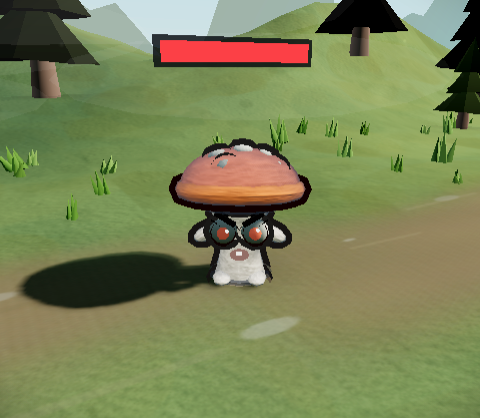
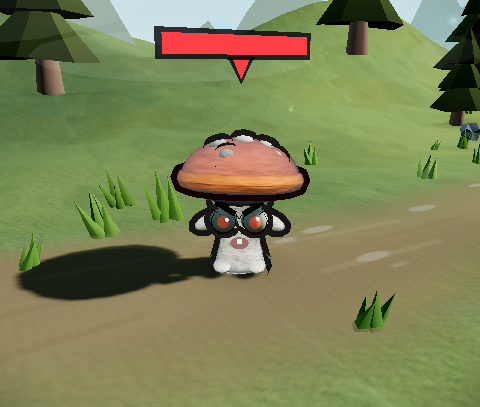
보스가 되어도 박자가 그대로였던 것 — 7종을 한 프로파일로 + 보스 감속 (enemy-quality ⓓ 완료·ⓔ 박자)
보스는 같은 메시를 1.9배로 키운 것이라 걸음까지 같으면 '크기만 키운
장난감'으로 읽힌다. 진자처럼 보행 주기는 다리 길이의 제곱근에 비례하므로
박자를 1/√배율(0.7255)로 늦춘다.

- ENEMY_GAIT 에 늑대·박쥐·버섯·슬라임 추가 — 7종 전부 한 표에서 뽑는다.
  기존 상수를 그대로 옮겨 담아 거동은 불변(늑대 실측 0.2833s = 옛 기대치와 0.8%).
- gaitOf(kind, isBoss) 신설 + BOSS_SCALE 상수화. 체공 +0.35 무겁게, 흔들 ×1.2,
  스윙 각은 ×0.9 로 줄인다(느린 박자에 같은 각이면 허공을 휘젓는다).
- probe-gait 를 6종 30항목으로 확장 + 보스 항목 신설 — 전부 통과.
  종간 주기 15쌍 전부 구분 · 보스 계수 7종 전부 0.7255 정확히 일치.
- 회귀: probe-cap-flap 5항목 PASS(capAmp 이관 확인) · probe-enemy-ao 유출 0 ·
  probe-screens-errors 31/31 에러 0.

diff --git a/web/js/scene3d.js b/web/js/scene3d.js
@@ -5813,11 +5813,38 @@ const Scene3D = {
     // rate = 박자(rad/s) · bob = 상하 진폭 · bobPow = 체공 곡선(>1 이면 아래에 오래 머물러 **무겁게**,
     // <1 이면 위에 오래 떠 **가볍게**) · roll = 좌우 흔들 · hip = 다리 스윙 · arm = 팔 스윙 ·
     // lean = 전방 기울기(고블린의 굽은 등, 임프의 돌진 자세).
+    // 이족(golem·goblin·imp)만이 아니라 **네 발·비행·홉·젤리 종도 여기서 값을 뽑는다.** 예전엔 그쪽
+    // 분기마다 상수가 박혀 있어 ⑴ 한 곳에서 튜닝할 수 없고 ⑵ **보스가 되어도 박자가 안 변했다**(아래).
     ENEMY_GAIT: {
         golem: { rate: 4.2, bob: 0.05, bobPow: 1.9, roll: 0.055, hip: 0.34, arm: 0.40, lean: 0.02 },
         goblin: { rate: 10.5, bob: 0.05, bobPow: 1.0, roll: 0.035, hip: 0.88, arm: 0.72, lean: 0.10 },
         imp: { rate: 12.0, bob: 0.062, bobPow: 0.7, roll: 0.03, hip: 0.78, arm: 0.66, lean: 0.13 },
+        wolf: { rate: 11, bob: 0.05, bobPow: 1.0, legRate: 13, tailRate: 9, pitch: 0.03 },
+        bat: { rate: 5, bob: 0.1, bobPow: 1.0, hover: 0.12, wingRate: 16 },
+        mushroom: { rate: 7, bob: 0.17, bobPow: 1.0, capTilt: 0.13, capAmp: 0.035 },
+        slime: { rate: 6, bob: 0.12, bobPow: 1.0, jellyAmp: 0.16 },
         _default: { rate: 8, bob: 0.055, bobPow: 1.0, roll: 0.05, hip: 0.8, arm: 0.65, lean: 0 },
+    },
+    BOSS_SCALE: 1.9,
+    // 보스는 **같은 메시를 그대로 키운 것**이라(g.scale 1.9) 박자까지 같으면 '크기만 키운 장난감'으로
+    // 읽힌다 — 큰 짐승이 작은 짐승과 같은 보폭으로 종종거리는 게 정확히 그 인상이다.
+    // 진자처럼 보행 주기는 다리 길이의 제곱근에 비례하므로 **박자를 1/√배율(≈0.73)로 늦춘다.**
+    // 체공 곡선도 한 단계 무겁게(+0.35) 해서 착지에 무게를 싣고, 좌우 흔들은 키워 관성을 준다.
+    // ⚠ 스윙 각(hip·arm)은 오히려 **줄인다** — 느려진 박자에 같은 각을 그대로 두면 팔다리가
+    //    허공을 휘젓는 인상이 된다(큰 개체일수록 관절 가동이 상대적으로 작다).
+    gaitOf(kind, isBoss) {
+        const G = this.ENEMY_GAIT[kind] || this.ENEMY_GAIT._default;
+        if (!isBoss) return G;
+        const k = 1 / Math.sqrt(this.BOSS_SCALE);
+        const o = {};
+        for (const key in G) o[key] = G[key];
+        for (const r of ['rate', 'legRate', 'tailRate', 'wingRate']) if (o[r]) o[r] = G[r] * k;
+        o.bob = G.bob * 1.15;
+        o.bobPow = G.bobPow + 0.35;
+        if (G.roll) o.roll = G.roll * 1.2;
+        if (G.hip) o.hip = G.hip * 0.9;
+        if (G.arm) o.arm = G.arm * 0.9;
+        return o;
     },
     monsterMesh(e) {
         const kinds = ['slime', 'golem', 'goblin', 'bat', 'mushroom', 'wolf', 'imp'];
@@ -6633,7 +6660,7 @@ const Scene3D = {
             topY = 0.98;
         }
         if (e.isBoss) {
-            g.scale.setScalar(1.9);
+            g.scale.setScalar(this.BOSS_SCALE);
             const crown = new THREE.Mesh(new THREE.ConeGeometry(0.18, 0.26, 5), new THREE.MeshLambertMaterial({ color: 0xffd54f, emissive: 0xffd54f, emissiveIntensity: 0.4 }));
             crown.position.y = topY;
             g.add(crown);
@@ -8732,39 +8759,40 @@ const Scene3D = {
             const walking = e.x > Combat.stopXOf(e) + 0.05;
             if (m.g.userData.landed) {
                 const clk = this._clock, id = e.id;
+                // 종별 프로파일 — 보스면 배율에 맞춰 박자가 느려지고 무거워진다(gaitOf 주석 참조).
+                const G = this.gaitOf(m.anim && m.anim.kind, e.isBoss);
                 if (m.anim && m.anim.fly) {
                     // 박쥐류: 공중 부양 + 날개 퍼덕임
-                    m.g.position.y = 0.12 + Math.sin(clk * 5 + id) * 0.1;
-                    m.anim.wings.forEach(w => w.rotation.z = w.userData.s * (0.3 + Math.sin(clk * 16 + id) * 0.55));
+                    m.g.position.y = G.hover + Math.sin(clk * G.rate + id) * G.bob;
+                    m.anim.wings.forEach(w => w.rotation.z = w.userData.s * (0.3 + Math.sin(clk * G.wingRate + id) * 0.55));
                 } else if (walking) {
                     if (m.anim && m.anim.kind === 'wolf') {
                         // 늑대: 네 다리 질주
-                        m.g.position.y = Math.abs(Math.sin(clk * 11 + id)) * 0.05;
+                        m.g.position.y = Math.pow(Math.abs(Math.sin(clk * G.rate + id)), G.bobPow) * G.bob;
                         m.anim.legs.forEach((lg, j) => {
                             // 로터리 갤럽 위상: 앞발 쌍·뒷발 쌍이 살짝 어긋나 어느 프레임에도 4지 동시 접지가 없음 (비평가: 죽은 프레임 금지)
-                            const lp = clk * 13 + id + [0, 1.1, 3.25, 4.35][j];
+                            const lp = clk * G.legRate + id + [0, 1.1, 3.25, 4.35][j];
                             lg.rotation.x = Math.sin(lp) * 0.85;
                             const kn = m.anim.knees && m.anim.knees[j];
                             // 스윙 복귀 구간 무릎 접힘 — 앞다리는 뒤로, 뒷다리는 앞으로 (사족 관절 방향). 접힘각 상향 (사용자 재검수: 정지 프레임 판독)
                             if (kn) kn.rotation.x = kn.userData.rx0 + (kn.userData.front ? -1 : 1) * Math.max(0, Math.sin(lp + 1.3)) * 0.85;
                         });
-                        m.g.rotation.x = Math.sin(clk * 11 + id) * 0.03;
-                        if (m.anim.tail) m.anim.tail.rotation.z = Math.sin(clk * 9 + id) * 0.25; // 질주 중 꼬리 좌우 휘날림
+                        m.g.rotation.x = Math.sin(clk * G.rate + id) * G.pitch;
+                        if (m.anim.tail) m.anim.tail.rotation.z = Math.sin(clk * G.tailRate + id) * 0.25; // 질주 중 꼬리 좌우 휘날림
                     } else if (m.anim && m.anim.hop) {
                         // 버섯: 크게 총총 + 갓 출렁 + **테두리 플랩**(우산 살 2차 모션)
-                        m.g.position.y = Math.abs(Math.sin(clk * 7 + id)) * 0.17;
-                        if (m.anim.cap) m.anim.cap.rotation.z = Math.sin(clk * 7 + id) * 0.13;
-                        this.driveCapFlap(m, clk, 0.035, id);
+                        m.g.position.y = Math.pow(Math.abs(Math.sin(clk * G.rate + id)), G.bobPow) * G.bob;
+                        if (m.anim.cap) m.anim.cap.rotation.z = Math.sin(clk * G.rate + id) * G.capTilt;
+                        this.driveCapFlap(m, clk, G.capAmp, id);
                     } else if (m.anim && m.anim.kind === 'slime') {
                         // 슬라임: 젤리 스쿼시 점프 — 몸통 스케일을 통째로 흔들지 않고 **정점 웨이브**로 민다.
                         // (강체 스케일은 '크기가 변하는 풍선'이라 젤리로 안 읽혔다 — driveJelly 주석 참조.)
-                        m.g.position.y = Math.abs(Math.sin(clk * 6 + id)) * 0.12;
-                        this.driveJelly(m, clk, 0.16, id);
+                        m.g.position.y = Math.pow(Math.abs(Math.sin(clk * G.rate + id)), G.bobPow) * G.bob;
+                        this.driveJelly(m, clk, G.jellyAmp, id);
                     } else {
                         // 이족보행: 관절 걷기 — 고관절 스윙+무릎 굽힘, 어깨 스윙+팔꿈치 굽힘 (통짜 막대기 금지)
-                        // ⓓ: 박자·진폭을 **종별 프로파일**에서 뽑는다. 예전엔 셋 다 clk*8 고정이라
+                        // ⓓ: 박자·진폭을 **종별 프로파일**(위 G)에서 뽑는다. 예전엔 셋 다 clk*8 고정이라
                         //    골렘·고블린·임프의 걸음이 구분이 안 됐다(ENEMY_GAIT 주석 참조).
-                        const G = this.ENEMY_GAIT[m.anim.kind] || this.ENEMY_GAIT._default;
                         const ph = clk * G.rate + id; // 종마다 주기가 달라 연속 캡처 정수배 겹침도 자연히 갈린다
                         // bobPow — 골렘은 아래에 오래 머물러 '쿵' 하고 내려앉고, 임프는 위에 오래 떠 가볍다.
                         m.g.position.y = Math.pow(Math.abs(Math.sin(ph)), G.bobPow) * G.bob;

diff --git a/web/tools/probe-gait.js b/web/tools/probe-gait.js
@@ -20,7 +20,7 @@
 //  ④ 종끼리 실제로 다른가 — 위 셋이 종별로 갈리는지. 같으면 ⓓ 가 안 된 것이다.
 const { chromium } = require(process.env.PW_PATH || '/opt/node22/lib/node_modules/playwright');
 const INDEX = 'file://' + require('path').resolve(__dirname, '../index.html');
-const KINDS = process.argv.slice(2).length ? process.argv.slice(2) : ['golem', 'goblin', 'imp'];
+const KINDS = process.argv.slice(2).length ? process.argv.slice(2) : ['golem', 'goblin', 'imp', 'wolf', 'mushroom', 'slime'];
 
 const N = 480;          // 8초분 @60fps
 const PERIOD_TOL = 0.12; // 실측 주기가 코드 기대치에서 벗어나도 되는 비율
@@ -55,7 +55,8 @@ const runKind = async (browser, KIND) => {
         e.x = Combat.stopXOf(e) + 5;             // walking = true 로 고정
         Scene3D.worldX = 0;
 
-        const gait = Scene3D.ENEMY_GAIT[m.anim.kind] || Scene3D.ENEMY_GAIT._default;  // 코드가 준 값을 읽는다
+        const gait = Scene3D.gaitOf(m.anim.kind, false);      // 코드가 준 값을 읽는다(일반 개체)
+        const bossGait = Scene3D.gaitOf(m.anim.kind, true);   // 같은 종의 보스 프로파일
 
         const ys = [], legs = [];
         for (let i = 0; i < N; i++) {
@@ -63,7 +64,7 @@ const runKind = async (browser, KIND) => {
             e.alive = true;
             Scene3D.update(1 / 60);
             ys.push(m.g.position.y);
-            const rig = m.anim.gleg || (m.anim.bleg && m.anim.bleg.map(L => L.hip));
+            const rig = m.anim.gleg || (m.anim.bleg && m.anim.bleg.map(L => L.hip)) || m.anim.legs;
             legs.push(rig ? rig.map(o => o.rotation.x) : []);
         }
 
@@ -75,7 +76,7 @@ const runKind = async (browser, KIND) => {
             swing.push(Math.max(...col) - Math.min(...col));
         }
 
-        return { kind: m.anim.kind, gait, ys, swing, nLeg };
+        return { kind: m.anim.kind, gait, bossGait, bossScale: Scene3D.BOSS_SCALE, ys, swing, nLeg };
     }, N);
 
     await page.close();
@@ -101,9 +102,14 @@ const runKind = async (browser, KIND) => {
 
     const minSwing = Math.min(...swing);
     console.log(`\n[${res.kind}] rate ${gait.rate} · bobPow ${gait.bobPow} · 다리 ${res.nLeg}개`);
-    if (!res.nLeg) fails.push('① 다리 리그가 없다 — anim.gleg/bleg 확인');
-    if (minSwing < 0.05) fails.push(`① 다리 스윙 진폭 최소 ${minSwing.toFixed(4)} rad — 다리가 안 움직인다`);
-    console.log(`① 다리 스윙 p-p ${swing.map(v => v.toFixed(3)).join(' / ')} rad ... ${res.nLeg && minSwing >= 0.05 ? 'PASS' : 'FAIL'}`);
+    // 슬라임·버섯은 다리가 없는 종이라 ① 을 면제한다(젤리 웨이브·홉이 그쪽의 고유 모션이다).
+    const LEGLESS = ['slime', 'mushroom'];
+    const legExempt = LEGLESS.includes(res.kind);
+    if (!legExempt) {
+        if (!res.nLeg) fails.push('① 다리 리그가 없다 — anim.gleg/bleg/legs 확인');
+        if (minSwing < 0.05) fails.push(`① 다리 스윙 진폭 최소 ${minSwing.toFixed(4)} rad — 다리가 안 움직인다`);
+    }
+    console.log(`① 다리 스윙 ${legExempt ? '해당 없음(다리 없는 종)' : swing.map(v => v.toFixed(3)).join(' / ') + ' rad'} ... ${legExempt || (res.nLeg && minSwing >= 0.05) ? 'PASS' : 'FAIL'}`);
 
     const err = expect ? Math.abs(period - expect) / expect : 1;
     if (err > PERIOD_TOL) fails.push(`② 실측 주기 ${period.toFixed(4)}s 가 코드 기대치 ${expect.toFixed(4)}s 에서 ${(err * 100).toFixed(1)}% 벗어남`);
@@ -124,6 +130,16 @@ const runKind = async (browser, KIND) => {
     if (!dirOk) fails.push(`③ bobPow ${gait.bobPow} 인데 중앙값 ${medN.toFixed(3)} 이 중립선 ${NEUTRAL.toFixed(3)} 의 반대쪽이다`);
     console.log(`③ 체공 곡선 중앙값 ${medN.toFixed(3)} vs 기대 ${expectMed.toFixed(3)} (중립선 ${NEUTRAL.toFixed(3)}, ${gait.bobPow > 1.15 ? '무겁게' : gait.bobPow < 0.85 ? '가볍게' : '중립'}) ... ${shapeOk ? 'PASS' : 'FAIL'}`);
     console.log(`   상하 진폭 ${(yMax - yMin).toFixed(4)} · 콘솔 에러 ${errors.length}건`);
+
+    // ⑤ 보스 프로파일 — 같은 메시를 1.9배로 키우는 만큼 박자가 1/√배율로 느려져야 한다.
+    //    ⚠ 기대 계수를 프로브에 베끼지 않는다(함정 ④⑴) — `Scene3D.BOSS_SCALE` 을 코드에서 읽어 만든다.
+    const bg = res.bossGait, kExp = 1 / Math.sqrt(res.bossScale);
+    const kAct = bg.rate / gait.rate;
+    const kErr = Math.abs(kAct - kExp) / kExp;
+    const heavier = bg.bobPow > gait.bobPow;
+    if (kErr > 0.02) fails.push(`⑤ 보스 박자 계수 ${kAct.toFixed(4)} 가 1/√${res.bossScale} = ${kExp.toFixed(4)} 에서 벗어남`);
+    if (!heavier) fails.push(`⑤ 보스 bobPow ${bg.bobPow} 가 일반 ${gait.bobPow} 보다 무겁지 않다`);
+    console.log(`⑤ 보스 박자 ${gait.rate.toFixed(2)} → ${bg.rate.toFixed(2)} (계수 ${kAct.toFixed(4)} vs 기대 ${kExp.toFixed(4)}) · bobPow ${gait.bobPow} → ${bg.bobPow} ... ${kErr <= 0.02 && heavier ? 'PASS' : 'FAIL'}`);
 
     if (errors.length) fails.push(`콘솔 에러 ${errors.length}건: ${errors.slice(0, 2).join(' | ')}`);
     return { fails: fails.map(f => `[${res.kind}] ${f}`), sig: { kind: res.kind, period: +period.toFixed(4), medN: +medN.toFixed(3), amp: +(yMax - yMin).toFixed(4) } };

diff --git a/web/TODO.md b/web/TODO.md
@@ -1868,6 +1868,7 @@
   - 진행 메모(3D 스트림 세션, 2026-08-17 15:0x): **② 시대 재질 정체성 완료 → ①②③ 전부 반영. 남은 건 ⑤의 비평가 채점뿐인데 그건 '최후반 폴리싱' 규칙에 걸려 있어 [ ] 유지**(다음 세션은 처음부터 만들 필요 없이 채점만 받으면 된다). **문제의 실체**: 무기는 `weaponMatKind`가 시대를 stone/bone/blackpowder/gunmetal/energy로 이미 갈라놨는데 **투구·갑옷·장신구는 전 시대가 같은 식 하나**였다 — `new THREE.Color(시대색).lerp(스틸, 0.32) + metalness .85`. 그래서 원시 '뼈 투구'도 매끈한 회백 금속으로 나와 **시대색만 다른 같은 물건**으로 읽혔다. **넣은 것**: ① `Scene3D.ageGearKind(age)`/`ageGearMats(age)` 신설 — 무기와 **같은 시대 구획**(0 primal / 1 forged / 2 brass / 3 polymer / 4+ alloy)으로 body·dark·trim 3종 재질을 굽는다. primal=돌 입자 맵+flatShading+metalness .02, forged=브러시드 결 맵+.86, brass=황동 .8, polymer=무광 폴리머 .34, alloy=어두운 합금 .9+언릿 발광 트림. ② `Scene3D.addAgeTrim(g, mats)` — 조립이 끝난 그룹의 **바운딩 박스에서 아랫단 밴드를 역산**해 계열별 디테일을 두른다(리벳 8개 / 발광 링+세로 스트립 / 가죽끈+뼈이빨 3개 / 황동 밴드+스터드 4개 / 벤트 슬랫 3줄). 스타일이 투구 11종·갑옷 6종이라 **좌표 상수로는 못 맞춘다** — 실제 크기에서 재는 게 유일한 방법. ③ 적용처: `makeHelmet`(인게임 투구와 공용) · `makeArmorPreview` · `makeArmorExtras`(4번째 인자로 mats, 인게임 호출부도 전달) · `makeAccessoryPreview`. **⚠ 두 번 밟은 함정**: ⑴ **맵은 albedo에 곱해진다** — rockTex 베이스가 #b9bcc0(≈0.73), leatherTex가 #c9b8a6이라 맵을 얹는 계열은 color를 그만큼 올려두지 않으면 시대색이 통째로 한 단 어두워진다(primal·forged에 +0.06 명도 보정). ⑵ **링은 원이 아니라 타원이어야 한다** — 갑옷 몸통은 0.46×0.30 박스라 원 링을 두르면 앞뒤로 6cm 떠서 '허공의 고리'가 된다. `ellipseRing()`이 토러스를 눕힌 뒤 scale.y로 z반경을 맞춘다(rotation.x=π/2면 **로컬 y가 월드 z**). ⑶ 갑옷 트림은 **견갑·망토를 붙이기 전에** 둘러야 한다 — 다 붙인 뒤 재면 반경이 0.23→0.44로 커져 리벳이 가슴 앞 허공에 뜬다. ⑷ 하드코딩된 파생 재질(`metalness: 0.85` 고정으로 만들던 림·코가드·가면판·tech 셸)을 `tintOf(base, 명도차)`로 갈았다 — 안 그러면 원시 투구에 강철 림만 반짝인다. **가죽·로브 계열**(hide/robe/망토/로브자락)은 시대색은 유지한 채 metalness만 빼서 '철판 원피스'를 막았다. **검증**: `web/tools/probe-age-materials.js`(신설) 5항목 전부 통과 — 재질 계열 5구획 / 계열별 PBR 서명 5종 고유 / 전 10시대 디테일 부착(원시 4개·중세 8개·근세 5개·현대 3개·미래 2개) / 시대별 썸네일 픽셀 전부 상이 / 콘솔 에러 0. 컨택트 시트 `web/tools/shot-age-gear.js` → `web/tools/age-gear.png`(시대 10행 × 부위 6열, 192px). 회귀: probe-screens-errors 31/31 · probe-forge-list-thumbs 5항목 전부 통과(그룹 80개 중복 0 유지). **⚠ 별건 발견 — `web/tools/shot-helm.js`의 카메라 피팅이 깨져 있다**: 투구가 아니라 **뒤쪽 풍경**이 찍힌다(내 변경 전 코드로 되돌려 찍어도 같은 그림 = 기존 결함, 회귀 아님). 투구를 근접 검증하려는 다음 세션은 이 도구부터 고칠 것.
   - 진행 메모(3D 스트림 세션, 2026-08-17 13:xx): **①·③ 완료, ② 시대 재질 정체성만 남음 — [ ] 유지.** **① 이모지 반복 제거**: `renderForgeListView`가 부위별 고정 이모지(🪖/👕/SLOT_EMOJI)를 이름 개수만큼 찍던 걸, 이미 있던 3D 스냅샷 파이프라인(`Scene3D.itemThumb` — 장비 상세 팝업이 쓰던 것)으로 교체했다. **③ 이름 정합(부분)**: 중복의 진짜 원인은 목록 렌더가 아니라 `HELMET_STYLES`/`ARMOR_STYLES`가 **한 시대 안에서 같은 스타일을 두 번 쓰던 것**이었다(예: 원시 helmet `['hair','mask','mask','visor','plume']` → 가면과 전투 페인트가 같은 모델). 스타일이 곧 프리뷰 모델이라 이름만 다르고 그림이 같았다 — 두 표를 **시대 안에서 전부 고유**하도록 이름 뜻에 맞춰 재배정했다(깃털 모자=plume, 뱀의 화관=crown 식). 실측: (시대,부위) 80개 그룹 **전부 고유, 중복 0** (이전 17개 그룹 중복). **하이드레이트 방식 주의**: 셀이 306개라 목록 열 때 전부 구우면 얼어붙는다(첫 `itemThumb`가 썸네일 렌더러+PMREM을 만드느라 소프트웨어 GL 실측 2.4초). 프레임당 6장씩 나눠 굽고 목록이 닫히거나 재렌더되면 중단한다. **IntersectionObserver 지연 로딩은 쓰지 말 것 — 헤드리스에서 콜백이 아예 안 와서 썸네일이 하나도 안 뜬다(실측).** 밝은 장비가 흰 칸에 묻혀 빈 칸처럼 보여 `.fl-face.has-thumb`에 옅은 바탕만 추가. **남은 일 ②**: 시대별 재질 언어(원시=돌·나무·뼈·가죽, 중세=단조 철·리벳, 미래=합금·발광 라인)를 실제 프리뷰 모델 재질에 반영 — 지금은 시대색만 다르고 재질감은 공통이라 원시 장비도 매끈한 회백색으로 나온다. 검증: `web/tools/probe-forge-list-thumbs.js` 5항목 통과, 목록 캡처 `web/tools/forge-list-thumbs.png`, 전 화면 스모크 31/31 콘솔 에러 0건.
 - [ ] **적 몬스터 퀄리티 업 (slug: enemy-quality) (사용자 지시)**: GLB 삭제로 복귀한 프로시저럴 적 7종(슬라임·골렘·고블린·박쥐·버섯·늑대·임프)+보스 변형의 품질을 영웅과 같은 수준으로 끌어올릴 것 — 영웅에 적용한 기법(캔버스 생성 텍스처, AO 링, 관절 분절 리그, 베벨 지오메트리, 얼굴 디테일)을 적에도 적용하고, 종별 개성(실루엣·재질·고유 모션)을 강화. 비평가 'AAA 모바일 3D 게임 적으로 믿을 수 있는가' 9/10 통과제, 종 단위로 나눠 커밋 가능.
+  - 진행 메모(3D 스트림, 2026-08-18 05:4x — **ⓓ 완료(7종 전부) + ⓔ 보스 박자. ⓒ 버섯갓·ⓔ 잔여·ⓕ 남아 [ ] 유지**): ■ **실체**: ⑴ 앞 커밋에서 이족 3종만 프로파일로 옮겨 놨고 **늑대·박쥐·버섯·슬라임은 각 분기에 상수가 그대로 박혀 있었다**(clk*11, clk*13, clk*16, clk*7, clk*6 …) — 한 곳에서 튜닝할 수 없었다. ⑵ 더 큰 것: **보스가 되어도 박자가 하나도 안 변했다.** 보스는 `g.scale.setScalar(1.9)` 로 **같은 메시를 그대로 키운 것**이라, 걸음까지 같으면 '크기만 키운 장난감'으로 읽힌다 — 큰 짐승이 작은 짐승과 같은 보폭으로 종종거리는 게 정확히 그 인상이다. ■ **넣은 것**: ⑴ `ENEMY_GAIT` 에 늑대(`legRate`·`tailRate`·`pitch`)·박쥐(`hover`·`wingRate`)·버섯(`capTilt`·`capAmp`)·슬라임(`jellyAmp`)을 추가해 **7종 전부** 한 표에서 값을 뽑는다(기존 상수를 그대로 옮겨 담아 **거동은 불변** — 늑대 실측 주기 0.2833s 가 옛 clk*11 기대치 0.2856s 와 0.8% 로 일치하는 것이 그 증거다). ⑵ `Scene3D.gaitOf(kind, isBoss)` 신설 + `BOSS_SCALE` 상수화(하드코딩 1.9 제거). **보스는 박자를 1/√배율(≈0.7255)로 늦춘다** — 진자처럼 보행 주기가 다리 길이의 제곱근에 비례하기 때문이다. 체공 곡선은 +0.35 무겁게, 좌우 흔들은 ×1.2. ⚠ **스윙 각(hip·arm)은 오히려 ×0.9 로 줄인다** — 느려진 박자에 같은 각을 두면 팔다리가 허공을 휘젓는 인상이 된다(큰 개체일수록 관절 가동이 상대적으로 작다). ■ **검증**: `probe-gait.js` 를 6종으로 확장 + 보스 항목(⑤) 신설 — **6종 30항목 전부 통과**. 실측 주기 vs 코드 기대치 오차 0.3~1.9% · 체공 중앙값이 `0.7071^bobPow` 기대치와 일치 · **종간 주기 15쌍 전부 구분됨**(0.2667~0.75s) · 보스 계수 7종 전부 **0.7255 = 1/√1.9** 정확히 일치. ⚠ 보스 기대 계수도 프로브에 베끼지 않고 `Scene3D.BOSS_SCALE` 을 **코드에서 읽어** 만든다(함정 ④⑴). 다리 없는 종(슬라임·버섯)은 ① 다리 게이트를 면제한다. 회귀: `probe-enemy-ao` 6종 후프 유출 0 · `probe-cap-flap` **5항목 PASS**(버섯 갓 플랩이 프로파일 이관 후에도 정상 — `capAmp` 를 옮겨 담았으므로 반드시 같이 볼 것) · `probe-screens-errors` **31/31 콘솔 에러 0** · `enemy-bat/mushroom/slime.png` 재촬영. ■ **다음 세션 착수 지점 = ⓔ 보스 변형 잔여**: 박자만 손봤고 **생김새는 아직 '1.9배 + 노란 왕관 콘' 하나뿐**이다. 실루엣 자체를 갈라야 한다(뿔·갑주 추가 파츠, 색 대비, 등장 시 고유 포즈). `gaitOf` 가 이미 isBoss 를 받으므로 모션 쪽 갈래는 여기에 얹으면 된다. 그 다음 ⓒ 버섯 갓(선행 과제는 위 04:4x 메모 참조) → ⓕ 비평가 9/10 채점.
   - 진행 메모(3D 스트림, 2026-08-18 05:1x — **ⓓ 착수·이족 3종 완료. ⓒ 버섯갓·ⓓ 잔여·ⓔ~ⓕ 남아 [ ] 유지**): ■ **실체 2건**: ⑴ **골렘·고블린·임프가 완전히 같은 걸음을 걸었다** — 셋 다 `clk * 8` 고정에 진폭까지 같은 이족 사이클 하나를 공유했다. 질량이 20배 차이 나는데 박자가 같으면 '같은 인형이 크기만 다른 것'으로 읽힌다. ⑵ **골렘은 다리가 아예 안 움직였다** — 다리와 발이 **둘 다 `g` 에 고정**돼 있어(anim 에 노출 안 됨) 몸통만 위아래로 까딱이는 **'미끄러지는 석상'**이었다. 걷기 코드가 골렘 다리를 건드릴 방법 자체가 없었다. ■ **넣은 것**: `Scene3D.ENEMY_GAIT` 신설 — 종별로 `rate`(박자)·`bob`·`bobPow`(체공 곡선)·`roll`·`hip`·`arm`·`lean`(전방 기울기)을 정의하고 이족 분기가 여기서 값을 뽑는다. 골렘 4.2/bobPow 1.9(느리고 **아래에 오래 머물러** 쿵 내려앉음) · 고블린 10.5/1.0(빠른 종종걸음 + 굽은 등 lean 0.10) · 임프 12.0/0.7(가장 빠르고 **위에 오래 떠** 가벼움). `limb()` 이 이미 피벗 위쪽 끝 그룹이라 골렘 다리는 그대로 스윙시킬 수 있었다 — **발을 다리에 매달고**(로컬 좌표 = 원래 g 좌표 − 다리 좌표) `anim.gleg` 로 노출했다. 무릎이 없어 통째로 스윙한다(짧고 두꺼워 큰 각은 부러져 보인다). ⚠ `lean` 은 상수라 **대기 분기에서 `rotation.x *= 0.9` 로 풀어 준다** — 안 그러면 멈춘 뒤에도 숙인 채 굳는다. ■ 🚨 **함정 1건 — 내가 만든 자가 틀려서 멀쩡한 코드를 반려할 뻔했다**: 체공 곡선을 '정규화 높이 중앙값 < 0.5 면 무겁다'로 쟀는데 골렘이 0.510 이 나와 FAIL 했다. **기준선이 0.5 가 아니다** — 높이가 `|sin|^p` 이고 위상이 균일하면 중앙값은 `sin(π/4)^p = 0.7071^p` 다(p=1 이면 **0.707**). 골렘의 기대치는 0.518 이고 실측 0.525 로 **처음부터 맞았다**. TODO 함정 ①('비평가가 ±2%p 초과를 보고하면 직접 교차검증하라, 오측정을 좇으면 오히려 원본에서 멀어진다')의 교과서적 사례다 — **코드가 아니라 자를 고쳤다.** 지금은 기대치를 `ENEMY_GAIT.bobPow` 에서 직접 계산해 맞춰 보므로 bobPow 가 실제로 먹었는지까지 같이 검증된다. ■ 🚨 **함정 2건 — 프로브가 두 번 죽었다(적이 살아 있을 거라고 가정)**: `enemyMap.size > 0` 만 기다리면 통과 직후에 **영웅이 웨이브를 전멸시켜** `Combat.enemies.find(alive)` 가 undefined 를 준다(imp·golem 런에서 각각 한 번씩). 대응: ⑴ evaluate 맨 처음에 `Combat.tick` 을 **먼저** 끊고 ⑵ 그래도 산 개체가 없으면 **메시가 남아 있는 적을 되살려** 쓰고 ⑶ 매 프레임 `alive` 를 다시 세운다. ■ **검증**: 신설 `tools/probe-gait.js` — 함정 ③ 그대로 지켜 **한 번의 evaluate 안에서** Combat 틱을 끊고 백로그를 비운 뒤 `Scene3D.update(1/60)` 를 480프레임 손으로 흘리며 샘플링한다. **3종 12항목 전부 통과**: 다리 스윙 p-p 골렘 **0.680**(예전엔 0 — 회귀 방지 게이트)·고블린 1.820·임프 1.627 rad / 실측 주기가 코드 기대치와 골렘 0.3%·고블린 0.3%·임프 1.9% / 체공 중앙값 0.525·0.711·0.787 (기대 0.518·0.707·0.785) / **종간 주기 3쌍 전부 구분됨**(0.75s vs 0.30s vs 0.267s). 회귀: `probe-enemy-ao` 6종 후프 유출 0 · `probe-screens-errors` **31/31 콘솔 에러 0** · `enemy-golem.png` 재촬영. ■ **다음 세션 착수 지점 = ⓓ 잔여**: 이족 3종은 됐고 **박쥐·슬라임·버섯·늑대는 각자 고유 모션이 이미 있다**(비행/젤리/홉+갓플랩/갤럽) — 다만 전부 `ENEMY_GAIT` 를 안 쓰고 각 분기에 상수가 박혀 있으니, 그 넷도 프로파일로 끌어올리면 한 곳에서 튜닝된다. 그 다음 ⓔ 보스 변형(보스는 지금 일반 개체와 같은 모션을 쓴다) → ⓕ 비평가 9/10 채점.
   - 진행 메모(3D 스트림, 2026-08-18 04:4x — **ⓒ 고블린·임프 완료(골렘·늑대에 이어 4종). 버섯·ⓓ~ⓕ 남아 [ ] 유지**): ■ **처리**: 고블린 14개(몸·배·머리·턱·고관절·어깨·팔꿈치·손·발)와 임프 7개(몸·배·머리·팔꿈치·손)의 완전구에 `sculptOrganic` 적용. 늑대에서 만든 자를 그대로 썼고 새 코드는 없다. ⚠ **눈알·코·뿔·발굽·송곳니·귀(Cone)·목걸이 구슬은 손대지 않았다** — 완전구/뾰족함이 정답인 부위다. ■ 🚨 **함정 1건 — seed 를 `base + s * k`(s = -1/1) 로 짓지 말 것**: 고블린에서 어깨(78−5)·팔꿈치(82−9)·손(86−13)이 **셋 다 73** 에 떨어져 세 파츠가 같은 덩어리가 됐다(개체차 0.0061 로 반려). 좌우를 `base`/`base+1` 로 붙이는 것도 **부족했다**(0.0113) — `s0 = seed * 2.3391` 이라 인접 seed 는 위상이 비슷하다. 파츠마다 **7 이상 벌린** 값으로 바꿔 0.0237 이 됐다. ■ **버섯은 일부러 남겼다**: 갓 돔(`dome`)이 이 종의 실루엣 대부분인데, 앞 세션이 넣은 `driveCapFlap` 이 **중심에서의 반지름을 축으로** 정점을 흔든다. 여기에 정적 반경 변동을 얹으면 플랩의 기준선이 바뀌어 `probe-cap-flap` 의 띠별 위상 지연 측정이 통째로 흔들린다. **플랩 진폭과 조형 변위를 분리해 잴 방법을 먼저 세운 뒤** 손댈 것 — 아무 생각 없이 `sculptOrganic` 을 걸면 앞 세션 작업이 조용히 깨진다. ■ 🚨 **인프라 함정 2건(다음 세션이 그대로 밟는다)**: ㉠ **`claim.sh refresh` 는 더러운 트리에서도 실패한다.** TODO 규칙은 detached HEAD 만 원인으로 적어 뒀지만, 커밋 안 한 작업 파일이 있으면 `push_lock` 의 `pull --rebase` 재시도가 거부돼 똑같이 `WARN ... push 실패` 가 나고 **remote ts 가 안 올라간다**(실측: `## main...origin/main [ahead 1]` = 락 커밋이 로컬에만 쌓임). 대응은 `git stash -u` → refresh → `git stash pop`. ㉡ **⚠ 그런데 프로브가 도는 중에는 stash 하지 말 것** — 헤드리스 브라우저가 `file://` 로 디스크의 js 를 읽는 중이라, stash 가 파일을 되돌리면 **실행 중이던 프로브 3개가 통째로 빈 출력만 남기고 죽는다**(실측). 리스 갱신은 프로브를 다 돌린 뒤에 할 것. ■ **검증**: `probe-flesh-sculpt.js` 를 종 인자로 받게 일반화(기본 늑대·고블린·임프) — **3종 15항목 전부 통과**. 고블린 cv 0.0276~0.0595 · 개체차 31쌍 최소 0.0237 / 임프 cv 0.0267~0.0563 · 개체차 7쌍 최소 0.0208 / 이음새 찢어짐 0 · 법선각 27.5°·27.7°(상한 34°) · 결정론 최대차 0. 회귀: `probe-enemy-ao` **6종 전부 후프 유출 0** · `probe-screens-errors` **31/31 콘솔 에러 0** · `enemy-goblin.png`·`enemy-imp.png` 재촬영. ■ **다음 세션 착수 지점**: ⓒ 는 **버섯 갓만 남았다**(위 단서 참조, 선행 과제 있음). 그 외 ⓒ 잔여는 `Cone`·`Box` 계열인데 뿔·귀·송곳니·마그마 균열처럼 **의도적으로 각진 것들**이라 사실상 종료로 봐도 된다. → ⓓ 종별 고유 모션 → ⓔ 보스 변형 → ⓕ 비평가 9/10 채점.
   - 진행 메모(3D 스트림, 2026-08-18 04:1x — **ⓒ 늑대 완료(골렘에 이어 2종). ⓒ 나머지 종·ⓓ~ⓕ 남아 [ ] 유지**): ■ **실체**: 늑대의 몸 덩어리 17개(흉곽·골반·러프·두개골·콧등·아랫배·근육 4·발 4·꼬리 3)가 전부 **완전구를 mesh.scale 로 눌러 만든 타원체**였다 — '회색 캡슐 조립' 오독의 본체다. ■ **골렘 자를 그대로 대면 안 된다**: `boulderGeo` 는 각진 파셋이 정답인 '돌'의 자라, 살·털에 걸면 '수정 늑대'가 된다. 그래서 `Scene3D.sculptOrganic(geo, seed, opt)` 를 따로 신설했다 — 저진폭·저주파로 **부드럽게** 윤곽만 깨고 법선을 매끈하게 다시 계산한다. 또 `boulderGeo` 와 달리 **이미 만들어진 지오메트리를 제자리에서** 바꾼다(호출자가 정한 분할수와 mesh.scale 을 그대로 살려야 해서다). ■ 🚨 **함정 1건 — 주파수를 너무 낮추면 변형이 통째로 무효다**: 처음 계수를 2.3/1.7/1.29 로 뒀더니 **같은 amp 인데 seed 에 따라 반경 변동계수가 0.0188~0.0542 로 요동**쳤다. 원인은 크기가 아니라, **물체 지름에 한 주기가 안 들어가면 변위가 사실상 '균일 스케일 + 평행이동'에 수렴**해 실루엣이 하나도 안 깨지는 것이었다(사인의 단조 구간에 물체가 통째로 얹히는 seed 가 있다). 3.1/2.6/2.1 로 올려 지름에 대략 한 주기가 들어가게 하니 seed 와 무관하게 0.0312~0.0662 로 안정됐다. **진폭을 올리는 게 아니라 주파수를 올리는 게 답이었다** — amp 를 키우면 '녹아내린' 인상만 늘고 cv 는 그대로다. ■ 🚨 **함정 2건 — 프로브 필터가 두 번 연속 틀렸다(측정 대상 오선정)**: ㉠ 눈알(흰자·홍채·동공·하이라이트)이 같은 `SphereGeometry` 라 그대로 섞여 들어와 **개체차 최소 0.0000** 이 나왔다 — 눈은 **완전구가 정답**이라 게이트에 들어가면 영원히 FAIL 한다. 털 재질(hideTex 맵)로 걸렀다. ㉡ `ProChar.capsule` 의 반구 캡 8개도 같은 furM 을 물어 재질 필터를 통과했다. **자식 수로 캡슐을 판별하면 안 된다** — 분절 사지는 캡슐 그룹에 다음 마디를 매달아 키워서(`upper.add(lower)`) 자식이 3개다(골렘용으로 쓴 '정확히 2개' 조건이 늑대에서 그대로 빗나갔다). 반대로 '같은 재질 Cylinder 형제가 있으면 캡슐'로 느슨하게 잡으면 이번엔 **몸통이 통째로 제외된다**(늑대는 `belly`·`neckW` 원기둥이 흉곽·골반과 같은 재질·같은 그룹이라, 측정 대상이 19→7 로 줄었다). 최종적으로 **기하학으로 확정**했다: 캡 반지름 = 원기둥 아래 반지름이고 **캡의 y 가 원기둥 y 의 정확히 2배**다(캡슐이 y=-len/2, y=-len 에 놓이므로). 캡슐은 두 피스 다 게이트 밖이라 **양쪽 역할을 다 보게** 했다 — 캡만 거르면 원기둥 6개가 도로 '프리미티브 잔존'으로 잡힌다. 이 판별은 `probe-golem-bevel.js` 에도 같이 반영했다(골렘 재검증 통과). ■ **검증**: 신설 `tools/probe-flesh-sculpt.js` 5항목 **전부 통과** — 반경 변동계수 **0.0312~0.0662**(완전구는 0, 게이트 0.022) · 변형 **전** 좌표로 무리 지은 이음새 정점군 10개 중 **찢어진 쌍 0**(uv 이음새·극점은 같은 좌표 정점이 여러 벌이라 인덱스 해시면 그대로 찢어진다) · 이웃 법선각 평균 최대 **24.5°**(상한 34° — 각지면 '살에 바위 자를 댄 것') · 결정론 최대차 **0** · 파츠 20쌍 최소차 **0.0312**(게이트 0.015). 회귀: `probe-enemy-ao` 늑대 링 5개 후프 유출 0 · `probe-screens-errors` **31/31 콘솔 에러 0** · `enemy-wolf.png` 재촬영(유기 변형은 의도대로 **은은해서** 96px 썸네일에서는 차이가 작다 — 판정은 캡처가 아니라 cv 수치로 할 것). ■ **덤으로 죽은 코드 1건 발견 → QA 등재**(`wolf-backstripe-dead`): 등 다크 새들 `backStripe` 가 만들어만 지고 `g.add()` 가 안 돼 **화면에 한 번도 나온 적이 없다**(프로브가 17개를 잡았는데 코드상 18개여서 역추적). 규칙 3대로 고치지 않고 등재만 했다. ■ **다음 세션 착수 지점 = ⓒ 고블린·임프·버섯**. `sculptOrganic` 을 그대로 쓰면 된다(살 계열). 남은 census: 고블린 `Sphere 11`·`Cone 6`, 임프 `Sphere 5`·`Cone 7`, 버섯 `Sphere 5`·`Box 1`. ⚠ **눈알·코·뿔·송곳니·귀(Cone)는 건드리지 말 것** — 완전구/뾰족함이 정답인 부위다. → ⓓ 종별 고유 모션 → ⓔ 보스 변형 → ⓕ 비평가 9/10 채점.
